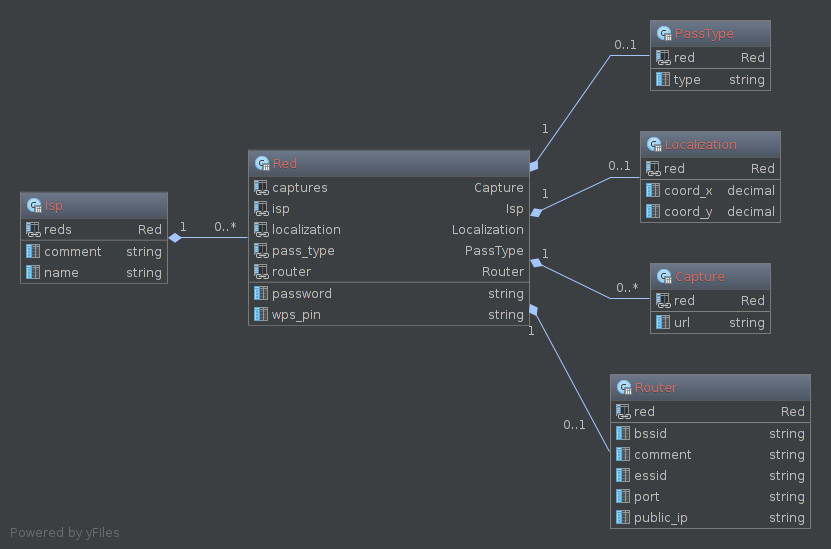
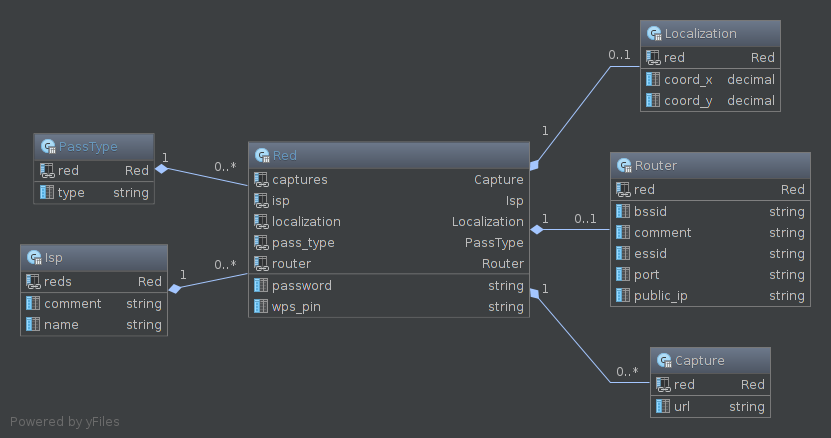
Modify app relationships

diff --git a/db/schema.rb b/db/schema.rb
@@ -40,16 +40,14 @@ ActiveRecord::Schema.define(version: 20140918215322) do
   add_index "localizations", ["red_id"], name: "index_localizations_on_red_id"
 
   create_table "pass_types", force: true do |t|
-    t.integer  "red_id"
     t.string   "type"
     t.datetime "created_at"
     t.datetime "updated_at"
   end
 
-  add_index "pass_types", ["red_id"], name: "index_pass_types_on_red_id"
-
   create_table "reds", force: true do |t|
     t.integer  "isp_id"
+    t.integer  "pass_type_id"
     t.string   "password"
     t.string   "wps_pin"
     t.datetime "created_at"
@@ -57,6 +55,7 @@ ActiveRecord::Schema.define(version: 20140918215322) do
   end
 
   add_index "reds", ["isp_id"], name: "index_reds_on_isp_id"
+  add_index "reds", ["pass_type_id"], name: "index_reds_on_pass_type_id"
 
   create_table "routers", force: true do |t|
     t.integer  "red_id"

diff --git a/db/migrate/20140918214544_create_reds.rb b/db/migrate/20140918214544_create_reds.rb
@@ -2,6 +2,7 @@ class CreateReds < ActiveRecord::Migration
   def change
     create_table :reds do |t|
       t.references :isp, index: true
+      t.references :pass_type, index: true
       t.string :password
       t.string :wps_pin
 

diff --git a/db/migrate/20140918215322_create_pass_types.rb b/db/migrate/20140918215322_create_pass_types.rb
@@ -1,7 +1,6 @@
 class CreatePassTypes < ActiveRecord::Migration
   def change
     create_table :pass_types do |t|
-      t.references :red, index: true
       t.string :type
 
       t.timestamps

diff --git a/app/models/red.rb b/app/models/red.rb
@@ -1,7 +1,7 @@
 class Red < ActiveRecord::Base
   belongs_to :isp
+  belongs_to :pass_type
   has_one :localization
   has_one :router
-  has_one :pass_type
   has_many :captures
 end

diff --git a/app/models/pass_type.rb b/app/models/pass_type.rb
@@ -1,3 +1,3 @@
 class PassType < ActiveRecord::Base
-  belongs_to :red
+  has_many :red
 end
